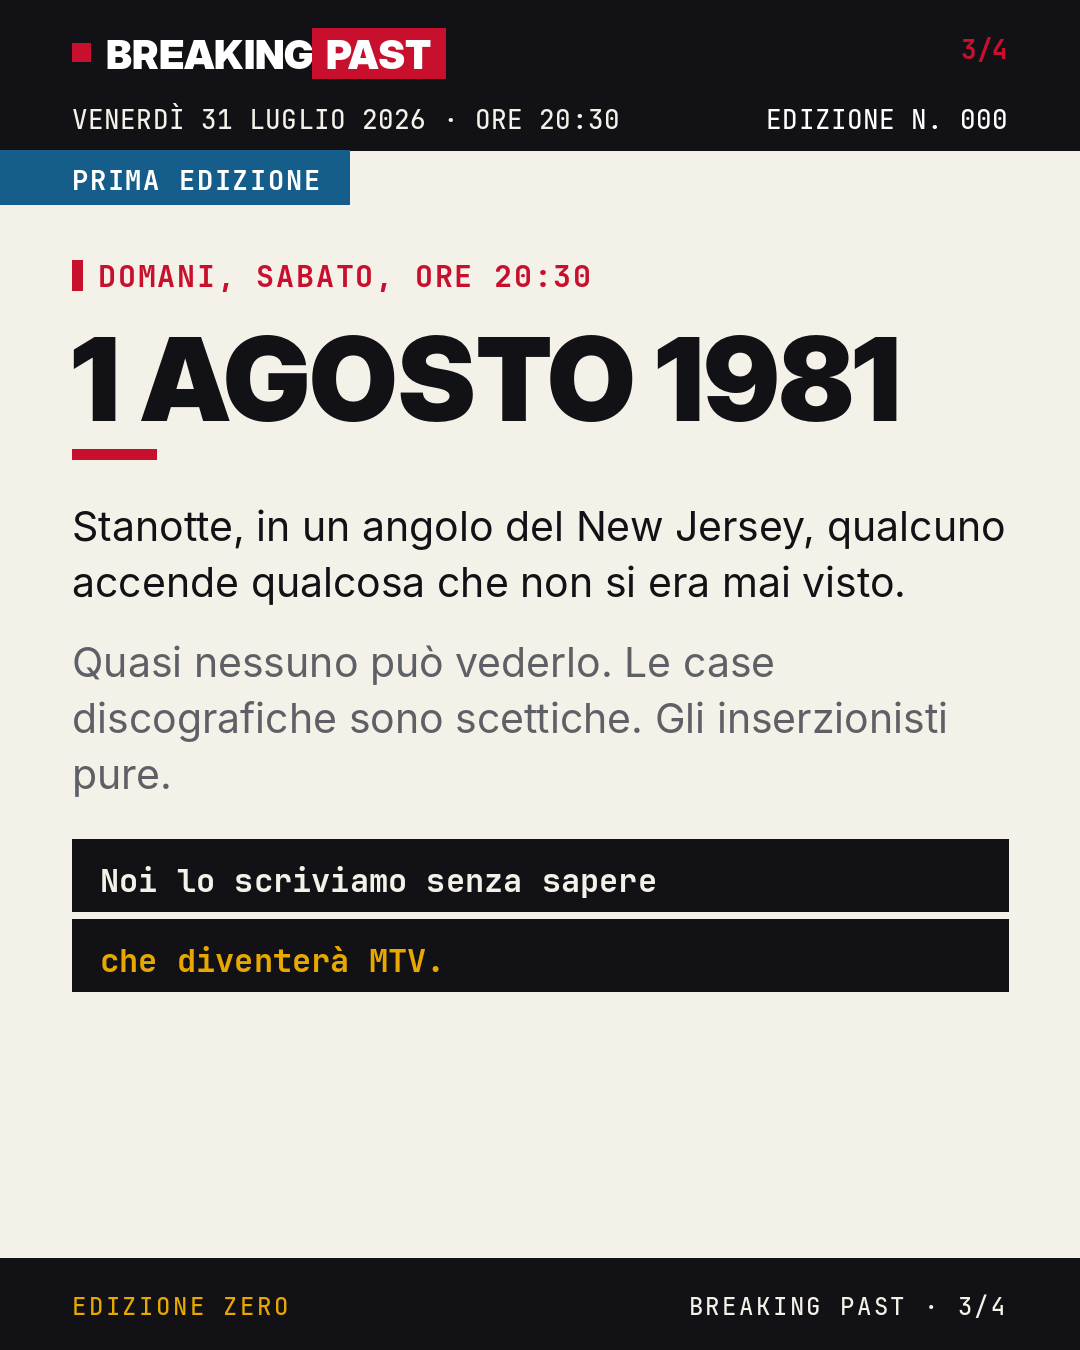
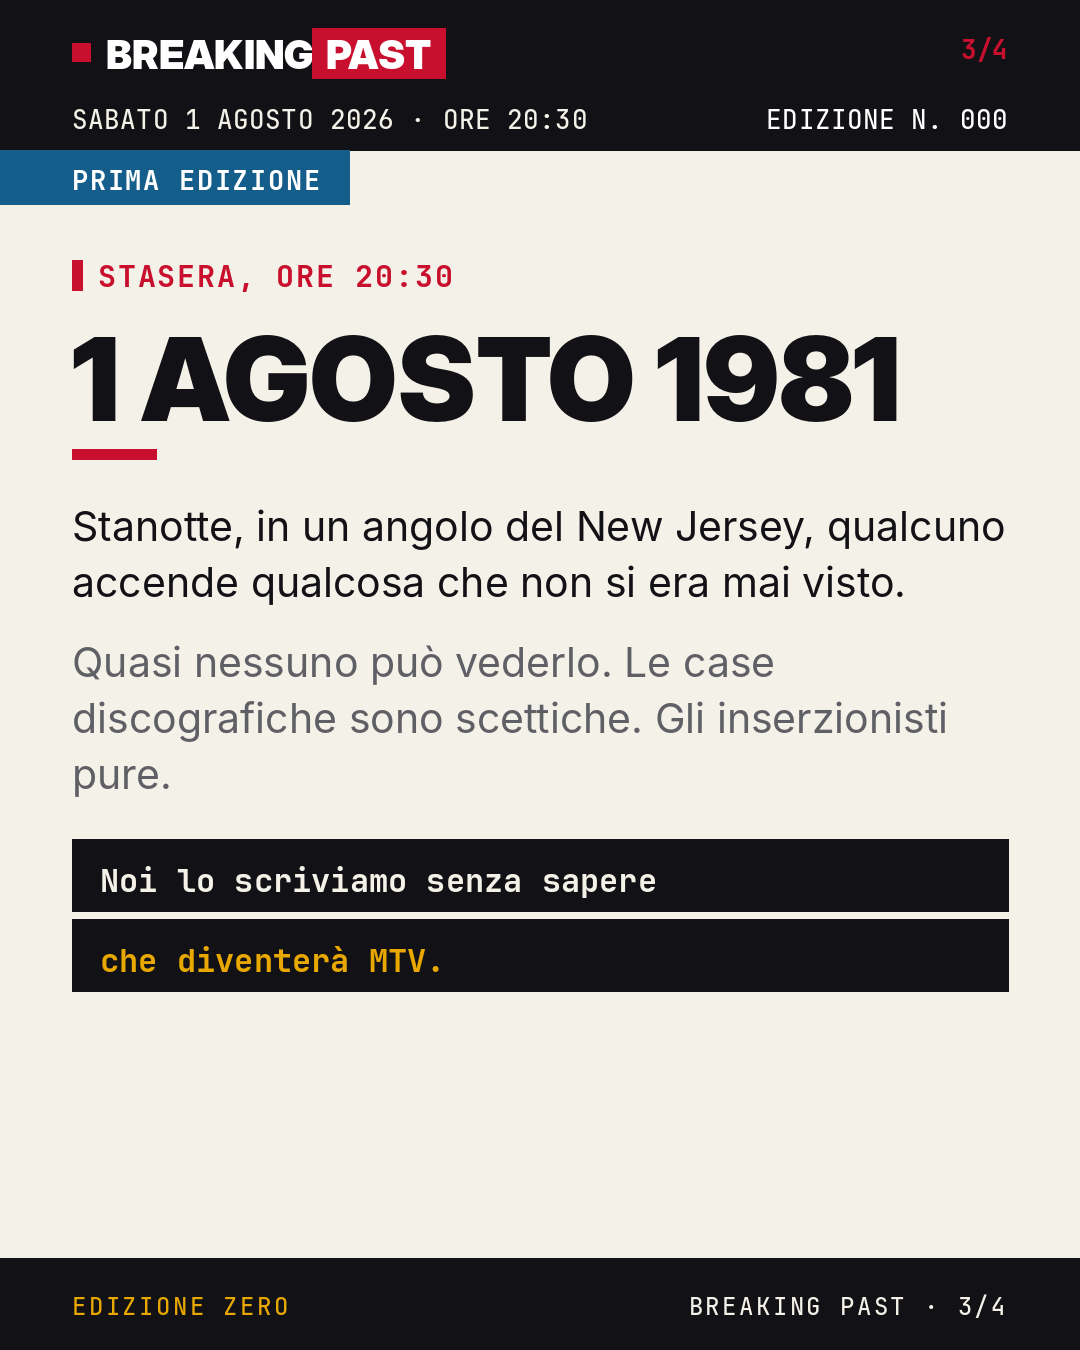
first
first

diff --git a/bp.py b/bp.py
@@ -74,7 +74,19 @@ CONTAINER_POLL_S = int(os.environ.get("CONTAINER_POLL_S", "5"))
 
 # Tolleranza: se il job parte DOPO le 20:30 di quanto sotto, pubblica comunque
 # (rete di sicurezza). Oltre, si ferma e segnala.
-LATE_TOLERANCE_MIN = int(os.environ.get("LATE_TOLERANCE_MIN", "90"))
+#
+# Misurato sul campo il 31/07/2026: il cron di GitHub Actions e' partito con
+# 3h53m di ritardo. Con la vecchia soglia di 90 minuti il job si rifiutava di
+# pubblicare e l'edizione saltava. Meglio un'edizione in ritardo che nessuna
+# edizione: 240 minuti coprono lo slittamento peggiore osservato.
+LATE_TOLERANCE_MIN = int(os.environ.get("LATE_TOLERANCE_MIN", "240"))
+
+# Un job GitHub non puo' durare piu' di 6 ore, quindi non si puo' partire la
+# mattina e dormire fino a sera. I tentativi sono percio' distribuiti nel
+# pomeriggio: quello che si sveglia troppo presto rinuncia subito e lascia il
+# turno al successivo. Cosi' gli orari anticipati fanno da rete quando il cron
+# slitta, senza sprecare un job da sette ore quando invece e' puntuale.
+EARLY_SKIP_MIN = int(os.environ.get("EARLY_SKIP_MIN", "240"))
 
 SLIDE_RE = re.compile(r"^\s*[—\-–]{0,2}\s*SLIDE\s+(\d+)\s*[—\-–]{0,2}\s*$", re.IGNORECASE)
 
@@ -575,9 +587,15 @@ def cmd_preflight(args) -> int:
 
 def attendi_le_2030(dry_run: bool = False) -> bool:
     """Il cron di Actions slitta: qui l'orario lo decide Python, ora legale inclusa.
-    Ritorna False se siamo troppo in ritardo per pubblicare."""
+    Ritorna False se e' troppo presto o troppo tardi per pubblicare."""
     now = datetime.now(TZ)
     target = now.replace(hour=PUBLISH_HOUR, minute=PUBLISH_MINUTE, second=0, microsecond=0)
+    anticipo = (target - now).total_seconds() / 60
+    if anticipo > EARLY_SKIP_MIN and not dry_run:
+        log(f"mancano {anticipo:.0f} minuti alle {PUBLISH_HOUR:02d}:{PUBLISH_MINUTE:02d}: "
+            f"troppo presto per restare in attesa (limite {EARLY_SKIP_MIN} min). "
+            f"Lascio il turno al tentativo successivo.")
+        return False
     if now > target:
         ritardo = (now - target).total_seconds() / 60
         if ritardo > LATE_TOLERANCE_MIN:
@@ -638,7 +656,10 @@ def cmd_publish(args) -> int:
     log(f"edizione {ep['n']} — {ep['titolo']} ({len(ep['slides'])} slide)")
 
     if not attendi_le_2030(dry_run=dry):
-        return 2
+        # Non e' un guasto: o e' troppo presto, o troppo tardi. In entrambi i
+        # casi il job esce pulito, cosi' la cronologia resta leggibile e i
+        # rossi segnalano solo i problemi veri.
+        return 0
 
     # Ricontrollo l'idempotenza DOPO l'attesa: nel frattempo un altro job
     # potrebbe aver pubblicato.
